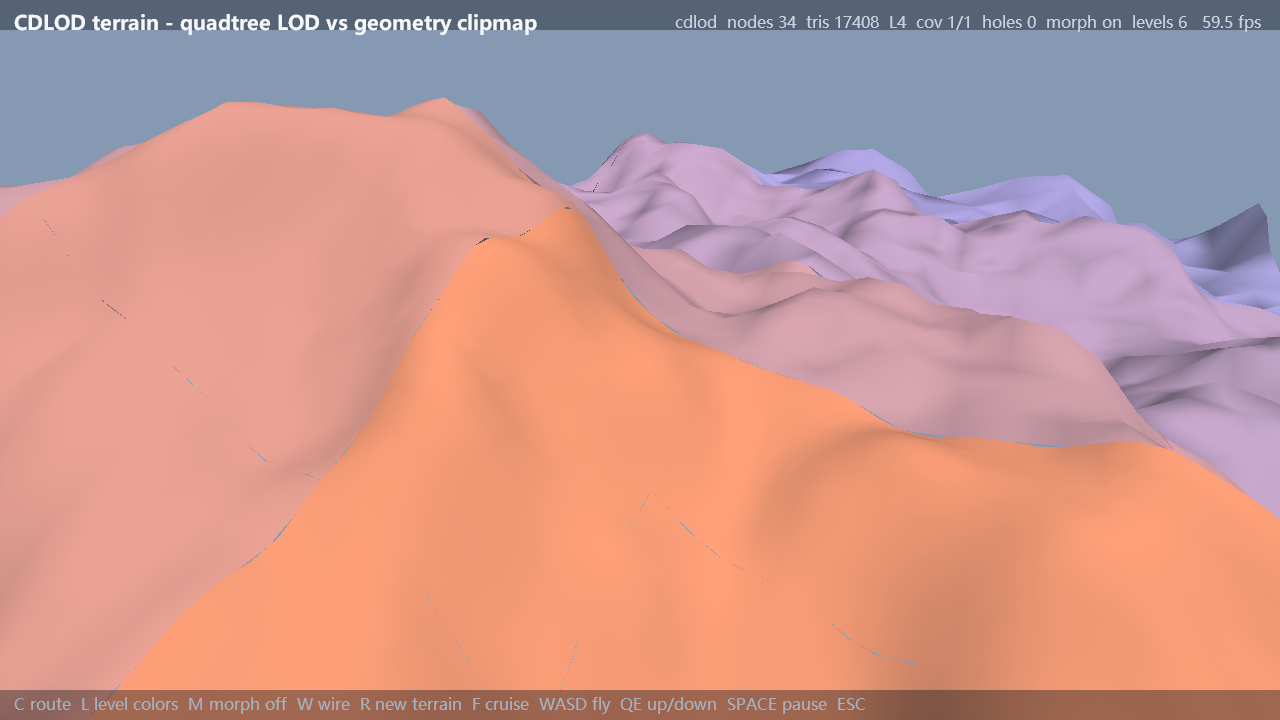
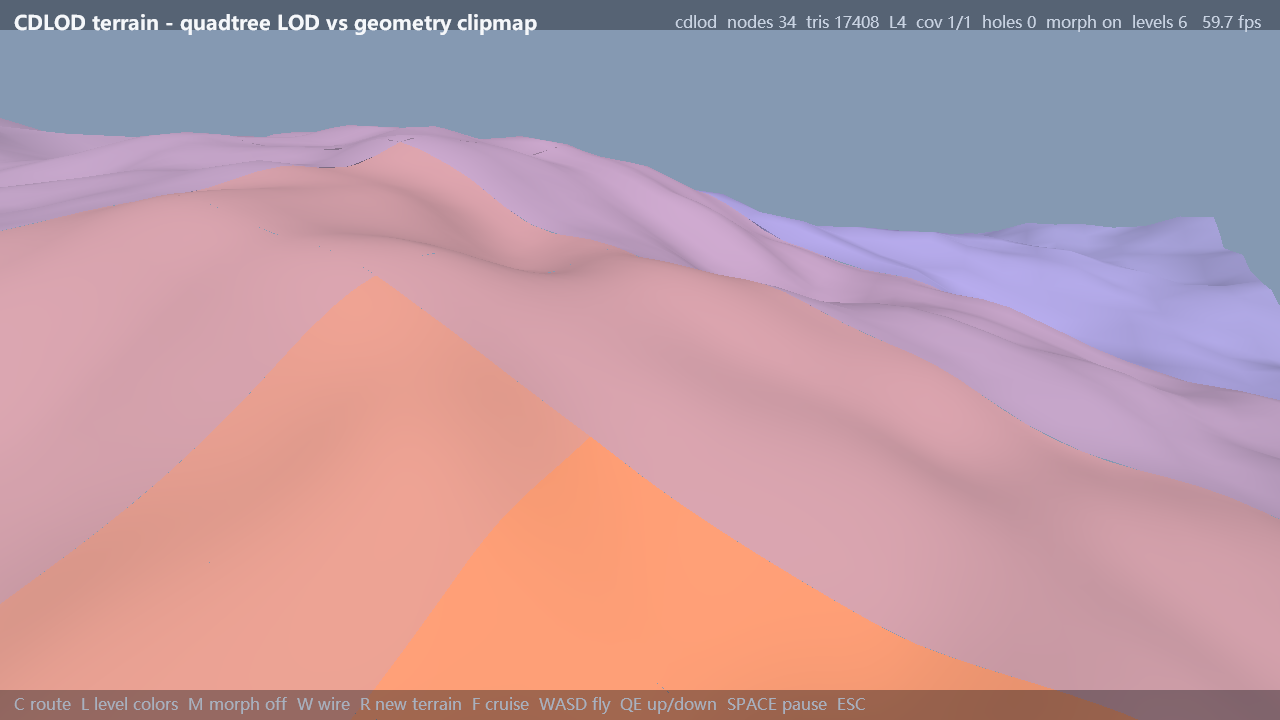
fix(cdlod_terrain): 改用 wheel 里存在的 noise.heightmap
上一版 import `world3d.logic.noise_vec.fbm` —— 那个模块在引擎仓里还是
**未提交的新文件**（git status 里是 ??），wheel 0.4.1 里根本没有。
冒烟时它只在"本地源码树"环境下通过，换成真正的 PyPI 0.4.1 就
ModuleNotFoundError（批量验收 FAIL rc=1）。

demo 依赖 wheel 里不存在的模块，等于在"引擎一律 pip 提供"的新规上开洞，
所以改回 wheel 里有的 `logic/noise.heightmap`（纯 Python，384² 约 1.9 秒）。

顺带：
- 高度图分辨率 512 → 384（纯 Python fBm 的开销随面积走，512² 要 3.4s
  才启动完，换种子时太肉；384² 约 1.9s，法线差分步长仍有 5.3 米）
- 文档里记下"为什么不用 noise_vec"这条，别的人不用再撞一次

背景：本机 venv 此前装的是**源码树**的版本（pip 因版本号同为 0.4.1 而
跳过了替换），所以本地验证一直"看起来没问题"。用 --force-reinstall 装回
真正的 PyPI 0.4.1 后才暴露 —— 教训是**本地 venv 不等于用户装到的东西**，
换环境后要重跑一遍验收。

（批量验收会重写 docs/ 剧照，本次又覆盖 12 张，已全部还原；
wardfall_04_summer.png 是 README 里提到但仓库缺失的一张，本次补齐。）

diff --git a/examples/cdlod_terrain.py b/examples/cdlod_terrain.py
@@ -74,10 +74,10 @@ from pyglet.window import key
 from world3d.engine.terrain_clipmap import (ClipmapConfig, build_clipmap,    # noqa: E402
                                             build_ring_mesh, clipmap_stats)
 from world3d.engine.terrain_lod import (LodConfig, TerrainLod)               # noqa: E402
-from world3d.logic.noise_vec import fbm                                      # noqa: E402
+from world3d.logic.noise import heightmap                                     # noqa: E402
 from world3d.platform.app import DemoApp, run                                # noqa: E402
 
-HM = 512                       # 高度图分辨率（每边）
+HM = 384                       # 高度图分辨率（每边）：384² 用纯 Python fBm 约 1.9s
 WORLD = 2048.0                 # 地形世界尺寸（米）
 HEIGHT_SCALE = 300.0
 # 一个高度纹素覆盖多少世界米 —— 顶点着色器用它当差分步长，保证法线尺度与视觉一致
@@ -91,11 +91,16 @@ LEVEL_COLS = ((1.00, 0.52, 0.34), (1.00, 0.72, 0.38), (0.86, 0.86, 0.52),
 
 # ------------------------------------------------------------- 高度场 --
 def make_heightmap(seed, octaves=5):
-    """fBm 高度场，值域归一化到 [0,1]（向量化噪声，512² 也是毫秒级）。"""
-    axis = np.linspace(-4.0, 4.0, HM, dtype=np.float64)
-    xs, ys = np.meshgrid(axis, axis)
-    h = fbm(xs, ys, octaves=octaves, lacunarity=2.03, gain=0.5, seed=seed)
-    h = np.asarray(h, dtype=np.float64)
+    """fBm 高度场，值域归一化到 [0,1]，再做一点岛屿化（中心高、边缘沉到水下）。
+
+    ⚠ 这里用 ``logic/noise.heightmap`` 而不是 ``logic/noise_vec``：后者在引擎仓
+    里还是**未提交的新文件**（``git status`` 里是 ??），wheel 0.4.1 里没有它 ——
+    demo 依赖 wheel 里不存在的模块，等于在"引擎一律 pip 提供"的新规上开洞。
+    纯 Python 版 384² 约 1.9 秒，一次性开销，可以接受。
+    """
+    h = np.asarray(heightmap(HM, HM, scale=0.006, seed=seed, octaves=octaves),
+                   dtype=np.float64)
+    xs, ys = np.meshgrid(np.linspace(-1.0, 1.0, HM), np.linspace(-1.0, 1.0, HM))
     # 岛屿化：中心高、边缘沉到水下，这样有海岸线可看
     r = np.hypot(xs, ys) / 4.0
     h = h * 0.72 + (1.0 - np.clip(r, 0.0, 1.0)) * 0.42
